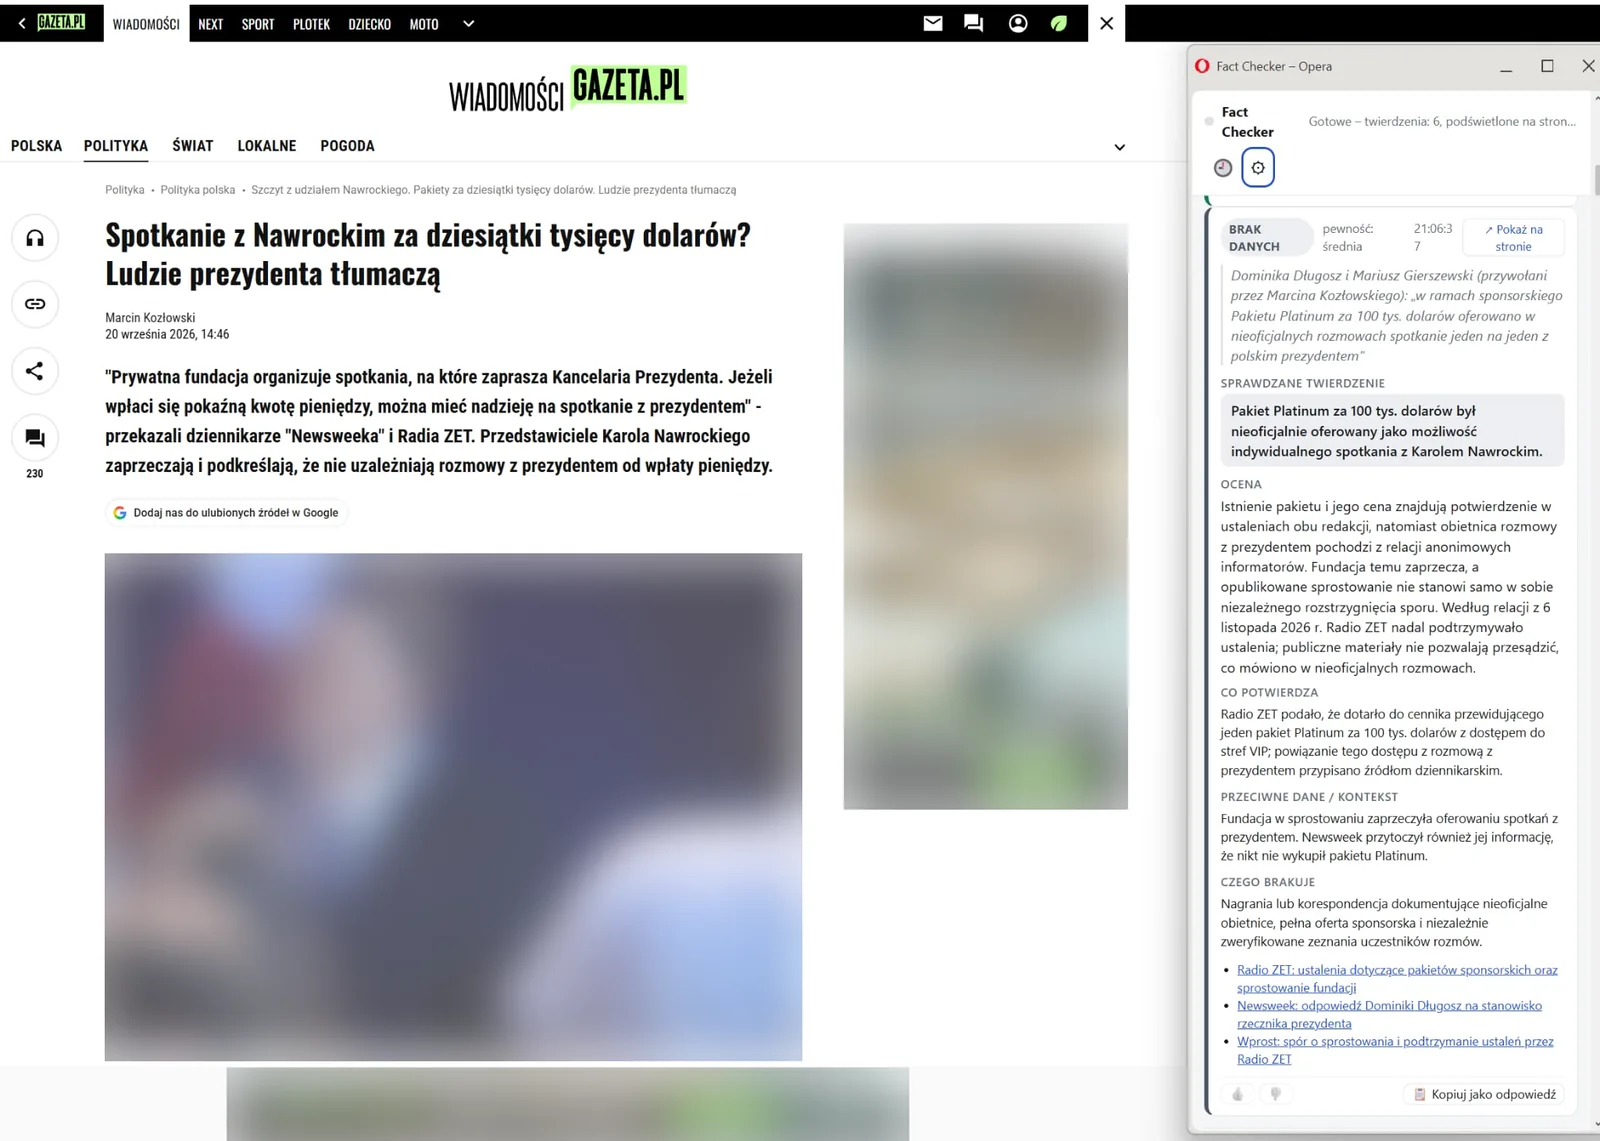
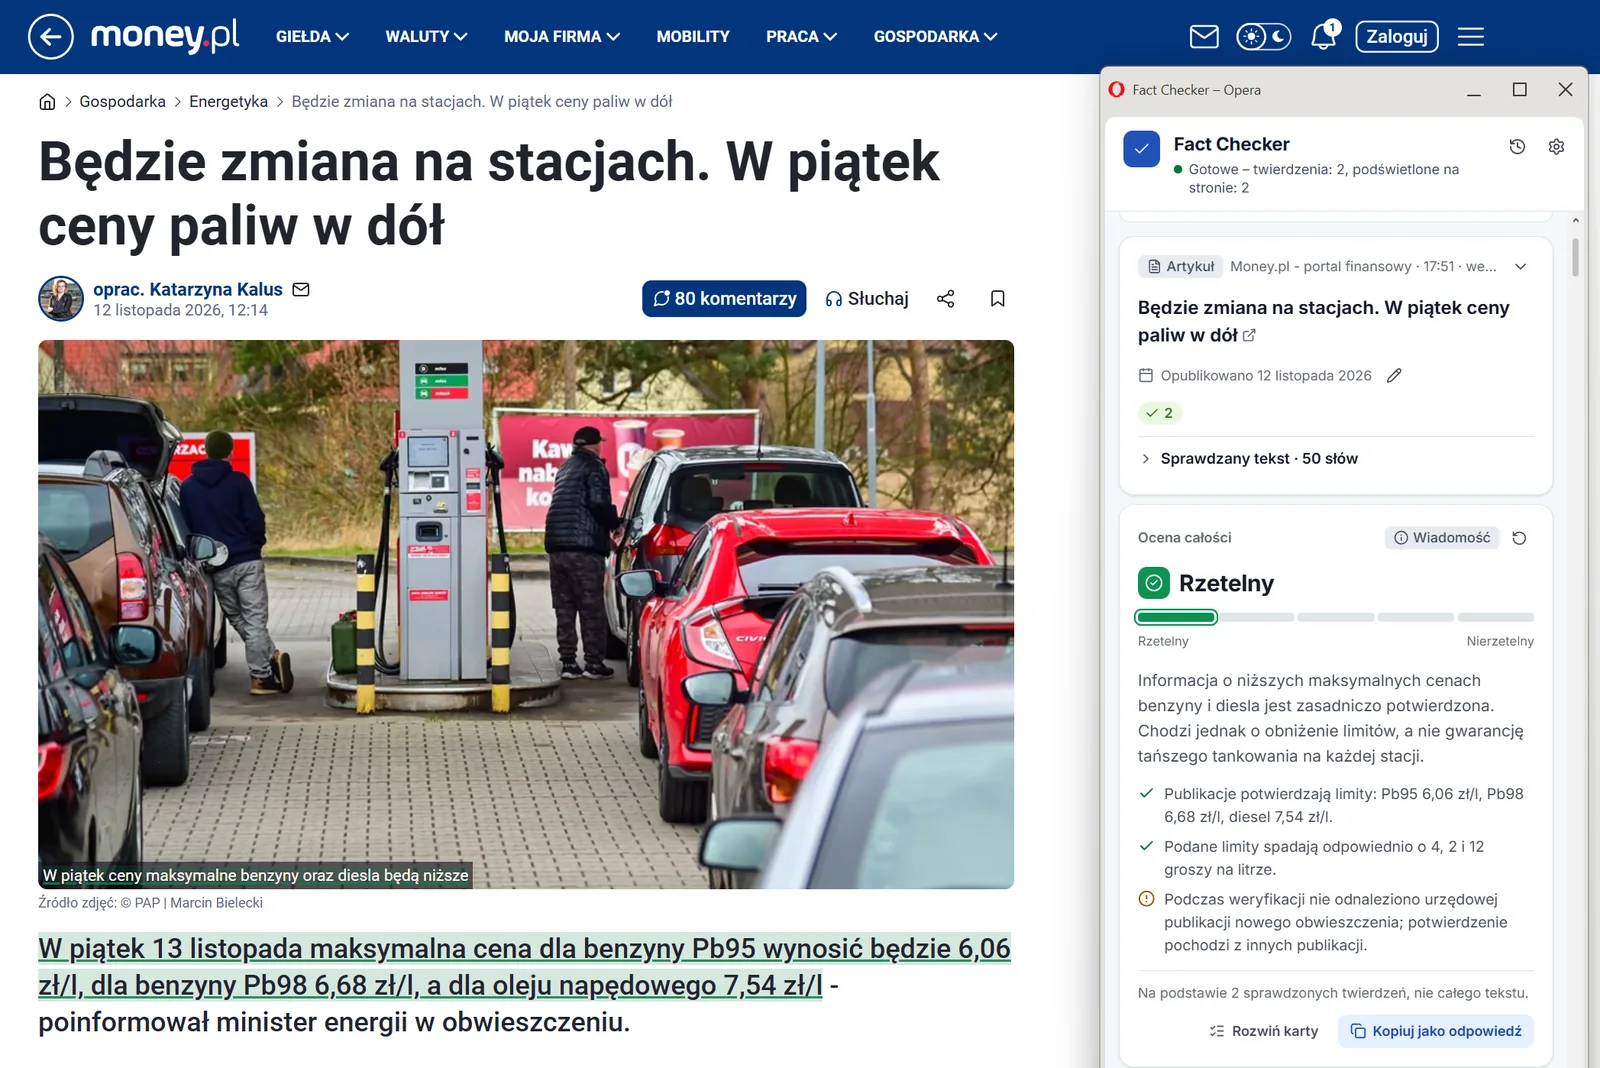
README: new Polish screenshots for 0.7.6
Real-use screenshots from Opera showing the 0.7.6 panel: a Facebook post checked
with the post icon, the result box under a post, an X post with an image, the
"Copy as reply" window and a news article. Private people's names and avatars are
blurred. The live-debate screenshot is unchanged.

Claude-Session: https://claude.ai/code/session_01J2r89jmiYBdtD1PuvgxGKG

diff --git a/README.md b/README.md
@@ -262,7 +262,7 @@ against stubbed servers. If something fails, right-click the panel → **Inspect
 
 ## Polski
 
-![Artykuł z serwisu informacyjnego sprawdzony w Operze: karta pokazuje twierdzenie, ocenę, co je potwierdza, kontekst, czego brakuje i źródła](docs/demo-pl-article.webp)
+![Post na Facebooku sprawdzony w Operze jednym kliknięciem ikonki przy „…”: twierdzenia podkreślone w tekście kolorem werdyktu, a w panelu ocena całości – co się zgadza, co jest fałszywe i czego brakuje](docs/demo-pl-post.webp)
 
 Wtyczka do przeglądarki (Chrome, Edge, Opera), która w panelu bocznym sprawdza fakty w tym, co czytasz i oglądasz:
 
@@ -287,6 +287,8 @@ fakty historyczne), dostaje werdykt ze źródłami:
 - 🔲 **Wycinek** ekranu – zaznaczasz prostokąt wokół czegokolwiek: wykresu w filmie, zrzutu, komentarza.
 - Przed wysłaniem widzisz podgląd. Werdykty są **podświetlane na stronie** kolorem werdyktu, z dymkiem.
 
+<img src="docs/demo-pl-post-frame.webp" width="440" alt="Wynik pod postem na Facebooku: ramka Fact Checkera z oceną całości, werdyktami, opinią, źródłami i przyciskiem „Kopiuj jako odpowiedź”">
+
 **Co dostajesz**
 - **Ocena całości** nad kartami – jeden z pięciu nazwanych poziomów: *Rzetelny* · *Rzetelny, z drobnymi błędami* ·
   *Mieszany* · *Wprowadza w błąd* · *Nierzetelny*. Jedno-dwa zdania o tym, co tekst mówi i czy to się broni, a do tego
@@ -306,7 +308,7 @@ fakty historyczne), dostaje werdykt ze źródłami:
   (obcięte osie, wybrane zakresy), zrzuty postów i satyrę. Wyszukiwanie obrazem (Google Lens, TinEye, Yandex) – na zdjęcia
   wyrwane z kontekstu.
 
-![Post z memem na Facebooku sprawdzony w Operze: werdykty zaznaczone na obrazku i wyjaśnione w panelu, łącznie z tym, co w grafice wprowadza w błąd](docs/demo-pl-post-meme.webp)
+![Post z grafiką na X sprawdzony w Operze: ramka z wynikiem pod postem i ocena całości w panelu – liczby z grafiki się zgadzają, ale wniosek autora posta wprowadza w błąd](docs/demo-pl-post-x.webp)
 
 **Odpowiedź pod postem**
 - **📋 Kopiuj jako odpowiedź** – od razu *Oryginał* werdyktu (bez AI, za darmo); komentarz ludzkim językiem, dopasowany
@@ -315,7 +317,7 @@ fakty historyczne), dostaje werdykt ze źródłami:
 - **Cały post** – „Kopiuj jako odpowiedź” pod oceną całości daje jeden komentarz do wszystkich werdyktów, zaczynający
   od oceny całości i głównej tezy.
 
-<img src="docs/demo-pl-reply.webp" width="420" alt="Kopiuj jako odpowiedź: komentarz ludzkim językiem, dopasowany do posta, w tonie „Na luzie”">
+<img src="docs/demo-pl-reply.webp" width="420" alt="Kopiuj jako odpowiedź: jeden komentarz do całego posta w tonie „Rzeczowo”, z zakładkami Na luzie, Krótko pod X i Oryginał">
 
 ### Lepsze werdykty
 
@@ -330,6 +332,8 @@ fakty historyczne), dostaje werdykt ze źródłami:
 - **Pamięć werdyktów:** ten sam tekst albo obrazek (mem, który krąży od tygodni) dostaje wcześniejszy wynik od razu, bez
   kosztów. Każdy obrazek jest rozpoznawany osobno, także w innym poście; ten sam szablon mema z innym napisem już nie.
 - **Data wypowiedzi:** stary post czy wywiad jest oceniany według ówczesnych danych.
+
+![Artykuł z money.pl sprawdzony w Operze: data publikacji, rodzaj treści „Wiadomość”, ocena całości „Rzetelny” i uwaga, czego nie udało się potwierdzić w źródle urzędowym](docs/demo-pl-article.webp)
 
 ### Debaty i podcasty na żywo
 
